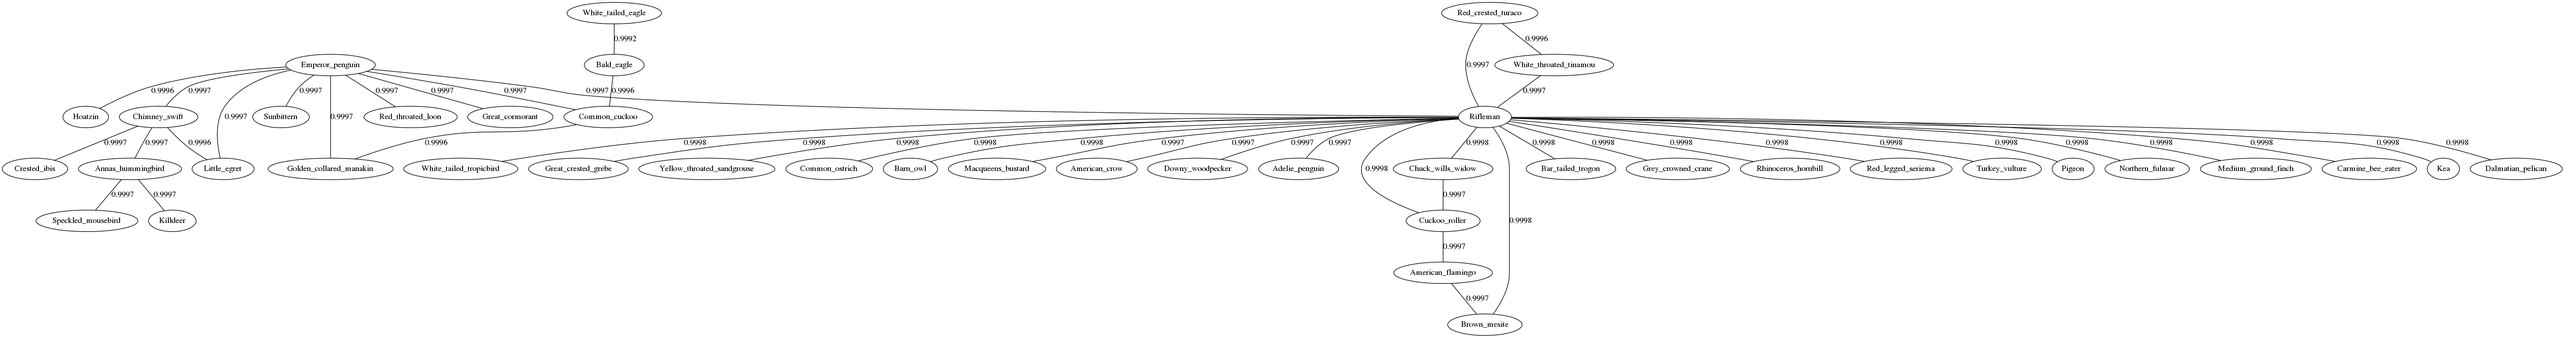
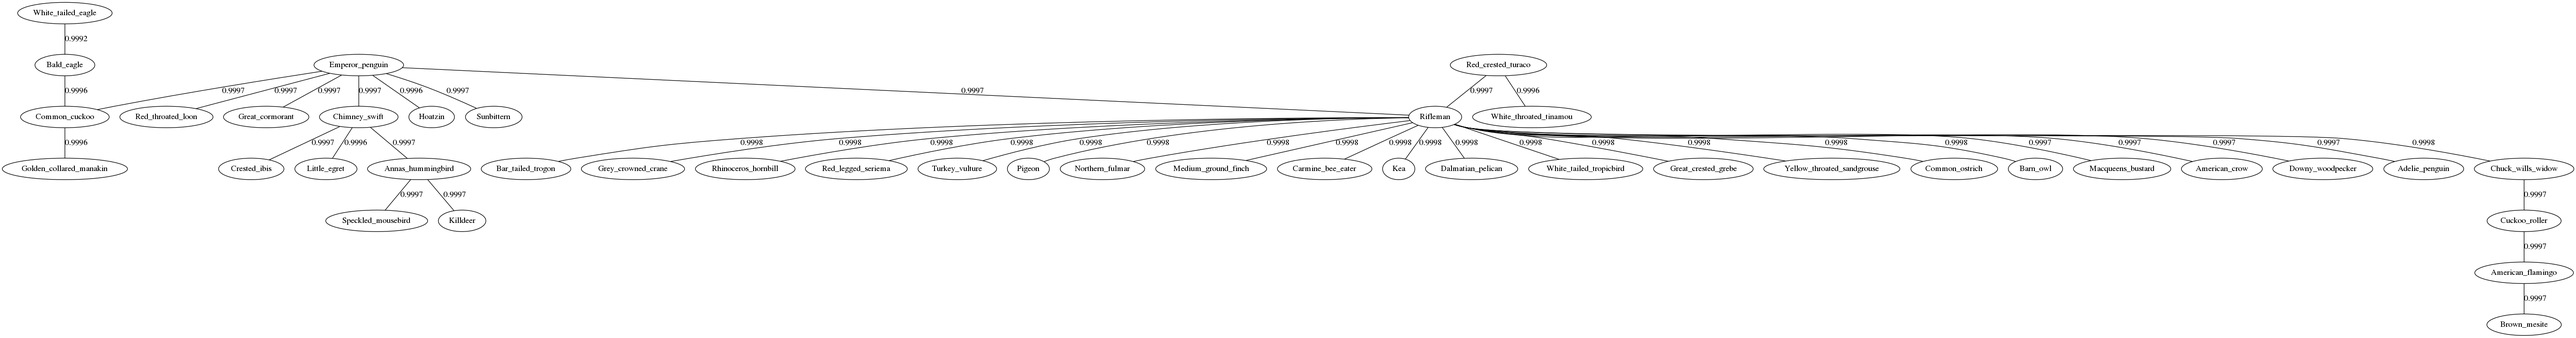
Fixed bug in kruskal's algorithm so there are no cycles in the tree.

diff --git a/compute_mst.py b/compute_mst.py
@@ -48,8 +48,9 @@ def kruskal(edges):
                 connection_ids[start][0] = setnum
                 # need to manually loop through to link all nodes in the
                 # components that are being joined
-                for c in connection_ids:
-                    if connection_ids[c][0] == connection_ids[end][0]:
+                orig = connection_ids[end][0]
+                for c in connection_ids.keys():
+                    if connection_ids[c][0] == orig:
                         connection_ids[c] = connection_ids[start]
                 setnum += 1
 
